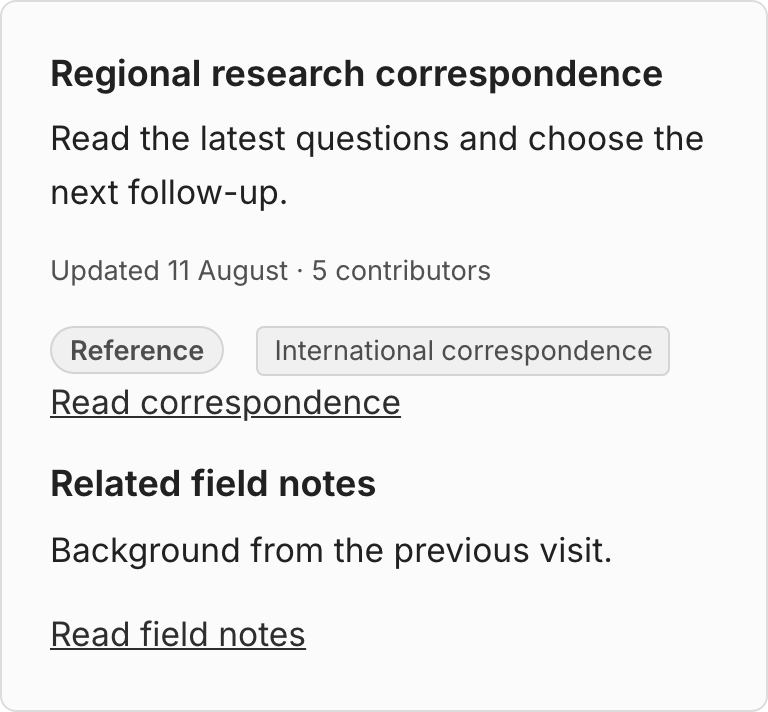
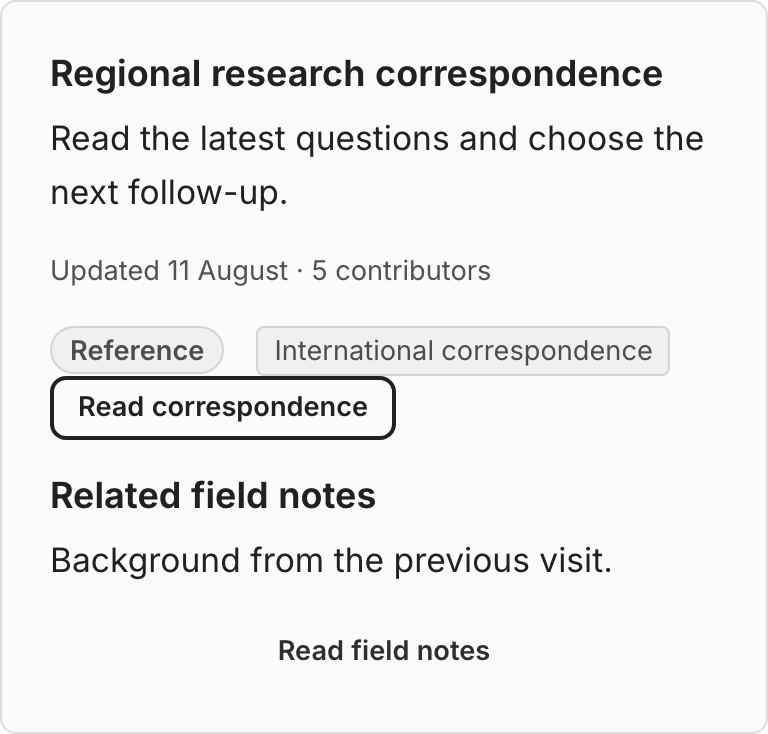
Give crowded Card actions shared target-size floors

diff --git a/tests/content_structure_polish_test.tsx b/tests/content_structure_polish_test.tsx
@@ -3,6 +3,7 @@ import { toFileUrl } from "@std/path";
 import { renderToStaticMarkup } from "react-dom/server";
 import { launchBrowser } from "../scripts/browser.ts";
 import { emitDesignSystemRuntime } from "../src/runtime.ts";
+import { catalogueExamples as cardExamples } from "../src/components/display/card/card.examples.tsx";
 import { Card } from "../src/components/display/card/card.tsx";
 import { Badge } from "../src/components/display/badge/badge.tsx";
 import { Tag } from "../src/components/display/tag/tag.tsx";
@@ -31,6 +32,7 @@ Deno.test("content structures preserve full labels and current state within loca
       outputRoot: toFileUrl(`${output}/`),
       components: [
         "card",
+        "button",
         "badge",
         "tag",
         "tabs",
@@ -45,6 +47,7 @@ Deno.test("content structures preserve full labels and current state within loca
     const css = await Deno.readTextFile(`${output}/discern.css`);
     const page = await browser.newPage();
     const structures = [
+      ...cardExamples.map(({ id, Example }) => <Example key={id} />),
       <Card key="Card">
         <h3>{name}</h3>
         <p>Essential content before metadata and action.</p>
@@ -166,6 +169,17 @@ Deno.test("content structures preserve full labels and current state within loca
           }).evaluate((node) => node === document.activeElement),
         );
         assertEquals(await page.locator("a a, button a, a button").count(), 0);
+        for (const label of ["Read correspondence", "Read field notes"]) {
+          const target = await page.getByRole("link", {
+            name: label,
+            exact: true,
+          })
+            .boundingBox();
+          assert(
+            target && target.width >= 24 && target.height >= 24,
+            `${label} retains a standalone action target at ${width}px / ${rootSize}px root`,
+          );
+        }
       }
     }
   } finally {

diff --git a/src/components/display/card/card.examples.tsx b/src/components/display/card/card.examples.tsx
@@ -1,4 +1,5 @@
 import { defineComponentReviewPostures } from "../../../../catalogue/review-postures.ts";
+import { Button } from "../../core/button/button.tsx";
 import { Badge } from "../badge/badge.tsx";
 import { Tag } from "../tag/tag.tsx";
 import { defineCatalogueExamples } from "../../../../catalogue/conformance.ts";
@@ -57,7 +58,9 @@ function CrowdedExample() {
         <Tag>International correspondence</Tag>
       </div>
       <p>
-        <a href="#correspondence">Read correspondence</a>
+        <Button href="#correspondence" variant="secondary" size="sm">
+          Read correspondence
+        </Button>
       </p>
       <Card
         raised
@@ -66,7 +69,9 @@ function CrowdedExample() {
       >
         <h4>Related field notes</h4>
         <p>Background from the previous visit.</p>
-        <a href="#field-notes">Read field notes</a>
+        <Button href="#field-notes" variant="ghost" size="sm">
+          Read field notes
+        </Button>
       </Card>
     </Card>
   );

diff --git a/map/_private/planning/design-polish/_done/2d-cards-navigation-and-identities.md b/map/_private/planning/design-polish/_done/2d-cards-navigation-and-identities.md
@@ -79,7 +79,7 @@ Authored feature files stay with their owner. Shared derived files and the narro
 
 ## Implementation and review evidence
 
-- Card retains passive semantics, A's title scale and flat nested treatment. Its crowded example uses explicit vertical rhythm and separate named links after essential content and quiet metadata.
+- Card retains passive semantics, A's title scale and flat nested treatment. Its crowded example uses explicit vertical rhythm and separate named Button anchors after essential content and quiet metadata. Canonical Card actions retain at least 24px targets at every tested local width and text size.
 - Tabs and Breadcrumbs wrap locally, preserving complete current labels. Tabs retains its existing panel contract and DOM-order keyboard navigation across rows.
 - People names wrap; the shared Avatar renders its inert monogram beneath the photo for loading/failure. AvatarGroup wraps across every supported size and accommodates three-digit overflow counts. CLI renderer behavior is unchanged; new canonical CLI examples cover the added shared states.
 - Browser regression coverage exercises 240/390/720px local widths at 16/32px root text, unbroken labels, last-selected navigation, failed images through the shared composers, all AvatarGroup sizes, and separate card action reachability. The original reproduction failed for navigation scrolling, truncated names, overflowing metadata, and missing photo fallback. Local wrapping and the permanent monogram resolve those failures without changing the shared foundations.
